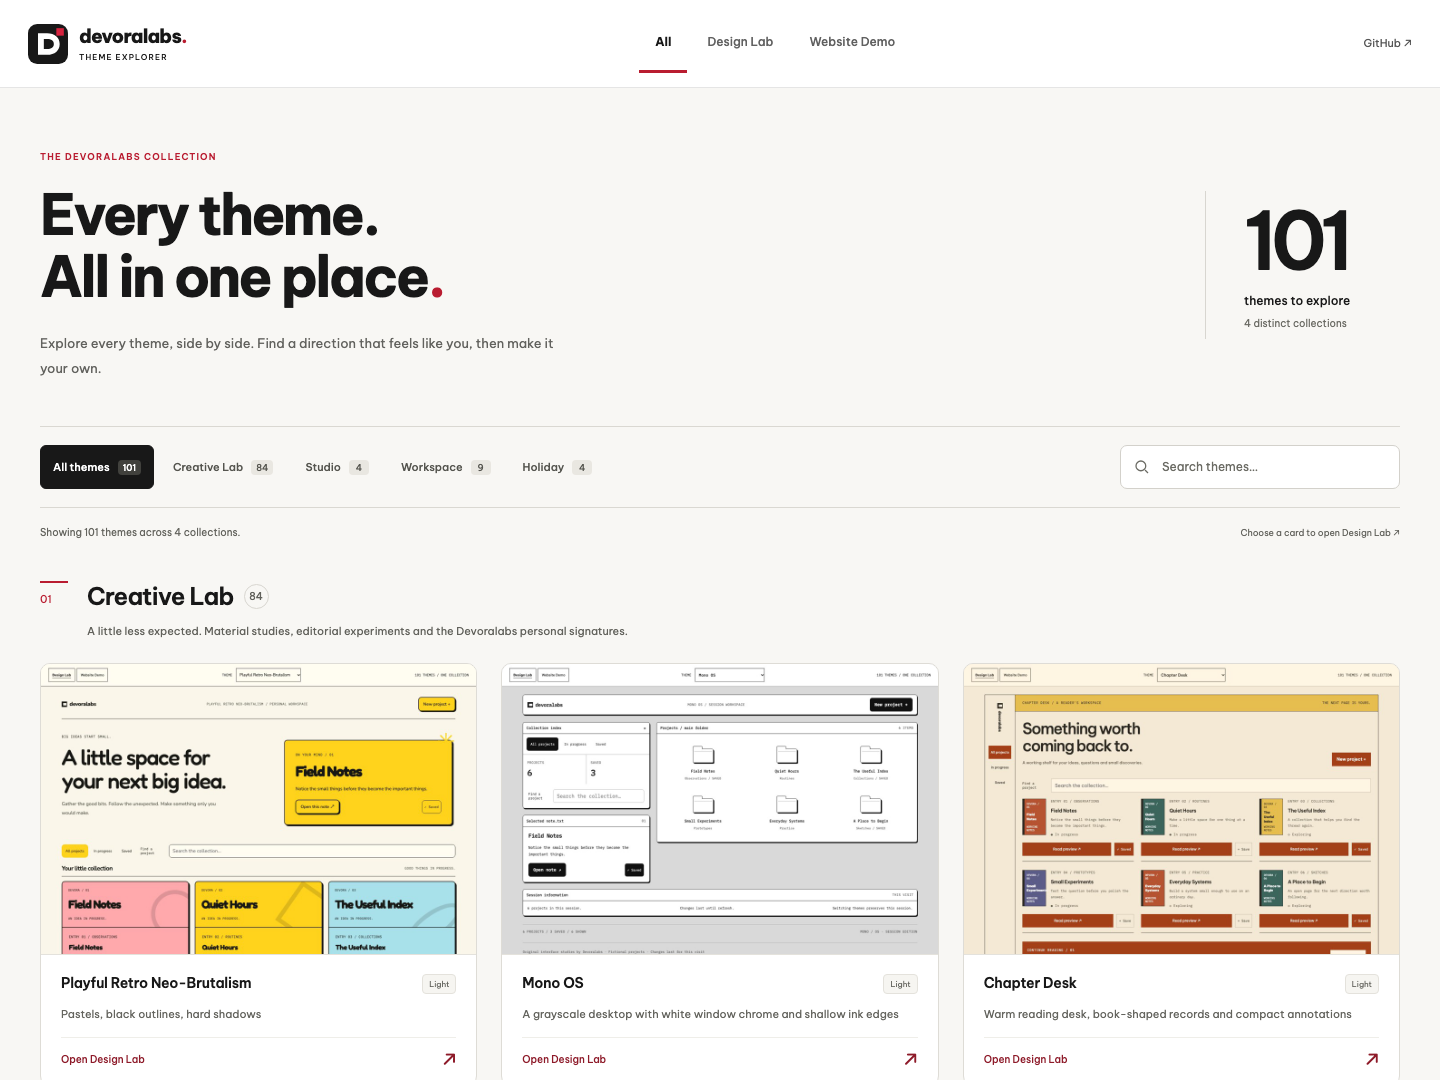
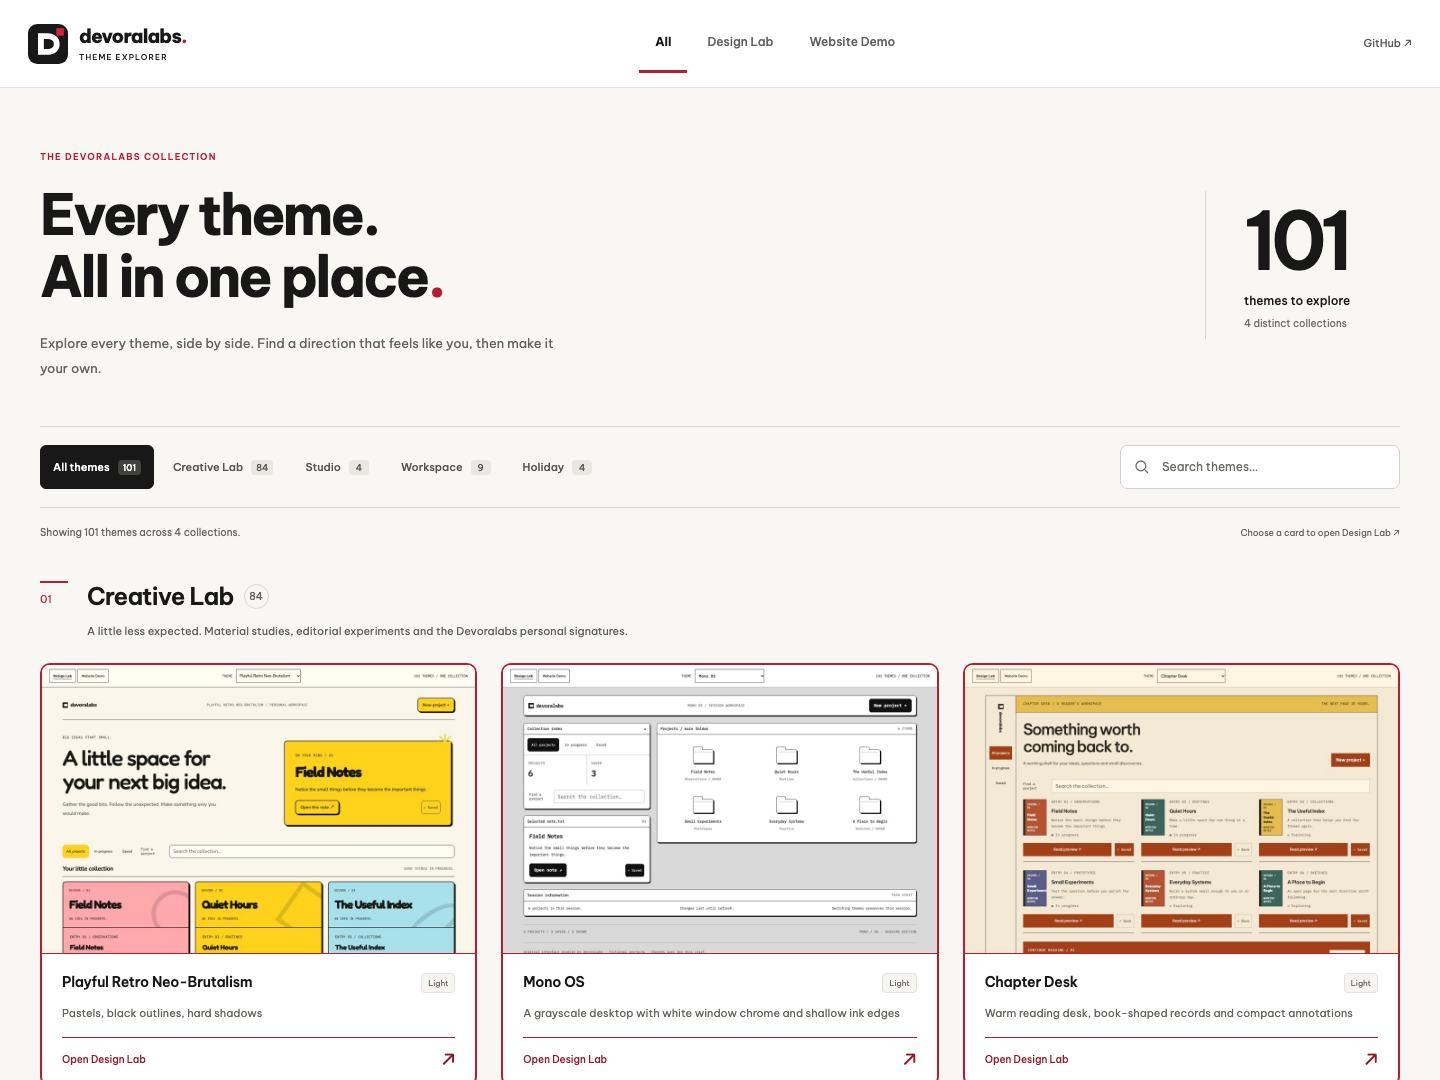
fix(ui): inset dropdown arrows and add red theme card borders

diff --git a/assets/starter/all-themes.css b/assets/starter/all-themes.css
@@ -2,7 +2,7 @@
 html[data-preview-view="all"] .explorer-header{grid-template-columns:auto 1fr auto}
 #all-panel{background:#F8F7F4;color:#181818}.all-page{width:min(1440px,calc(100% - 80px));margin:auto;padding:62px 0 28px}.all-intro{display:flex;justify-content:space-between;align-items:center;gap:50px;margin-bottom:46px}.all-eyebrow{font-size:9px;letter-spacing:.13em;font-weight:600;color:#B91C30;display:block;margin-bottom:20px}.all-intro h1{font-size:clamp(36px,4vw,56px);font-weight:700;line-height:1.12;letter-spacing:-2.5px;margin:0 0 22px}.all-intro h1>span{color:#B91C30}.all-intro p{font-size:13px;line-height:1.9;color:#62625E;margin:0;max-width:530px}.all-summary{display:grid;flex:none;border-left:1px solid #D8D6D0;padding:8px 0 8px 38px;min-width:195px}.all-summary>strong{font-size:80px;font-weight:600;letter-spacing:-6px;line-height:1.05}.all-summary>span{font-size:12px;font-weight:500;margin-top:9px}.all-summary>small{color:#6B6B64;font-size:10px;margin-top:6px}
 .all-toolbar{display:flex;align-items:center;justify-content:space-between;gap:20px;border-block:1px solid #DAD8D2;padding:18px 0}.all-filters{display:flex;gap:6px;flex-wrap:wrap}.all-filters button{min-height:44px;display:inline-flex;align-items:center;gap:8px;padding:9px 12px;border:1px solid transparent;border-radius:6px;background:transparent;color:#55554F;font-size:11px;font-weight:500;white-space:nowrap}.all-filters button>span{font-size:9px;padding:1px 5px;background:#E9E7E1;color:#55554F;border-radius:4px;min-width:20px;text-align:center}.all-filters button:hover{background:#EEEBE5}.all-filters button[aria-pressed="true"]{background:#181818;border-color:#181818;color:#FFFFFF}.all-filters button[aria-pressed="true"]>span{background:#41413D;color:#FFFFFF}.all-search{display:flex;align-items:center;gap:9px;min-height:44px;min-width:210px;max-width:280px;width:24%;padding:0 12px;background:#FFFFFF;border:1px solid #D3D1CB;border-radius:7px;color:#6B6B64}.all-search:focus-within{outline:2px solid #B91C30;outline-offset:2px}.all-search>svg{flex:none}.all-search input{font:400 12px/1.5 'Be Vietnam Pro',system-ui,sans-serif;width:100%;min-width:0;border:0;min-height:42px;color:#181818;background:transparent}.all-search input:focus-visible{outline:none}.all-search input::placeholder{color:#6B6B64}.all-result-row{display:flex;align-items:center;justify-content:space-between;gap:20px;padding:17px 0 12px;font-size:10px;color:#65655F}.all-result-row p{margin:0}.all-result-row>span{font-size:9px}
-.all-collection{padding-top:29px;margin-bottom:30px;scroll-margin-top:120px}.all-collection-heading{display:flex;gap:19px;align-items:start;margin-bottom:22px}.all-collection-index{font-size:11px;color:#B91C30;border-top:2px solid #B91C30;padding-top:8px;min-width:28px}.all-collection-heading h2{display:flex;align-items:center;gap:10px;font-size:24px;font-weight:600;line-height:1.3;letter-spacing:-.7px;margin:0 0 9px}.all-collection-count{font-size:10px;font-weight:500;letter-spacing:0;color:#62625C;border:1px solid #D8D6D0;border-radius:50%;width:25px;height:25px;display:inline-flex;justify-content:center;align-items:center}.all-collection-heading p{margin:0;font-size:11px;line-height:1.8;color:#62625C;max-width:710px}.all-grid{display:grid;grid-template-columns:repeat(3,minmax(0,1fr));gap:24px}.theme-tile{min-width:0}.theme-card{display:flex;height:100%;flex-direction:column;text-decoration:none;background:#FFFFFF;border:1px solid #DEDCD6;border-radius:10px;overflow:hidden;transition:border-color 120ms,box-shadow 120ms}.theme-card:hover{border-color:#AAA69C;box-shadow:0 5px 17px #1818180B}.theme-card.is-selected{border-color:#B91C30;box-shadow:0 0 0 1px #B91C30}.theme-card:focus-visible{outline:3px solid #B91C30;outline-offset:4px}.theme-card-image{position:relative;aspect-ratio:3/2;overflow:hidden;border-bottom:1px solid #E4E2DC}.theme-card-image img{display:block;width:100%;height:100%;object-fit:cover;transition:transform 160ms}.theme-card:hover .theme-card-image img{transform:scale(1.015)}.theme-card-selected{position:absolute;right:12px;top:12px;background:#B91C30;color:#FFFFFF;font-size:9px;font-weight:600;padding:5px 9px;border-radius:5px;box-shadow:0 1px 5px #18181819}.theme-card-body{padding:18px 20px 16px;display:flex;flex-direction:column;gap:11px;flex:1}.theme-card-title{display:flex;justify-content:space-between;gap:10px;align-items:start}.theme-card-title h3{margin:0;font-size:14px;font-weight:600;letter-spacing:-.2px;line-height:1.5;overflow-wrap:anywhere}.theme-card-tone{flex:none;font-size:8px;color:#64645E;background:#F6F5F1;border:1px solid #E4E2DC;padding:3px 6px;border-radius:4px;margin-top:1px}.theme-card-body>p{font-size:11px;line-height:1.8;color:#64645E;margin:0;flex:1}.theme-card-link{display:flex;justify-content:space-between;align-items:center;border-top:1px solid #EFEEE9;padding-top:12px;margin-top:2px;color:#8E1B2A;font-size:10px;font-weight:500}.theme-card-link>span{font-size:19px;line-height:1}.all-empty{text-align:center;padding:70px 20px 80px}.all-empty>span{display:inline-grid;place-items:center;font-size:30px;width:60px;height:60px;background:#ECE9E0;border-radius:50%;margin-bottom:20px;color:#B91C30}.all-empty h2{font-size:22px;letter-spacing:-.5px}.all-empty p{font-size:12px;color:#64645E;line-height:1.8;margin:14px 0 22px}.all-empty button{min-height:44px;background:#181818;color:#FFFFFF;padding:11px 17px;border:1px solid #181818;border-radius:6px;font-size:12px}.all-footer{display:flex;justify-content:space-between;align-items:center;gap:20px;border-top:1px solid #DAD8D2;margin-top:40px;padding-top:23px;font-size:9px;color:#64645E}.all-footer a{text-decoration:none}.all-footer a:hover{color:#B91C30;text-decoration:underline}
+.all-collection{padding-top:29px;margin-bottom:30px;scroll-margin-top:120px}.all-collection-heading{display:flex;gap:19px;align-items:start;margin-bottom:22px}.all-collection-index{font-size:11px;color:#B91C30;border-top:2px solid #B91C30;padding-top:8px;min-width:28px}.all-collection-heading h2{display:flex;align-items:center;gap:10px;font-size:24px;font-weight:600;line-height:1.3;letter-spacing:-.7px;margin:0 0 9px}.all-collection-count{font-size:10px;font-weight:500;letter-spacing:0;color:#62625C;border:1px solid #D8D6D0;border-radius:50%;width:25px;height:25px;display:inline-flex;justify-content:center;align-items:center}.all-collection-heading p{margin:0;font-size:11px;line-height:1.8;color:#62625C;max-width:710px}.all-grid{display:grid;grid-template-columns:repeat(3,minmax(0,1fr));gap:24px}.theme-tile{min-width:0}.theme-card{display:flex;height:100%;flex-direction:column;text-decoration:none;background:#FFFFFF;border:2px solid #B91C30;border-radius:10px;overflow:hidden;transition:border-color 120ms,box-shadow 120ms}.theme-card:hover{border-color:#B91C30;box-shadow:0 5px 17px #B91C3012}.theme-card.is-selected{border-color:#B91C30;box-shadow:0 0 0 2px #B91C30}.theme-card:focus-visible{outline:3px solid #B91C30;outline-offset:4px}.theme-card-image{position:relative;aspect-ratio:3/2;overflow:hidden;border-bottom:1px solid #B91C30}.theme-card-image img{display:block;width:100%;height:100%;object-fit:cover;transition:transform 160ms}.theme-card:hover .theme-card-image img{transform:scale(1.015)}.theme-card-selected{position:absolute;right:12px;top:12px;background:#B91C30;color:#FFFFFF;font-size:9px;font-weight:600;padding:5px 9px;border-radius:5px;box-shadow:0 1px 5px #18181819}.theme-card-body{padding:18px 20px 16px;display:flex;flex-direction:column;gap:11px;flex:1}.theme-card-title{display:flex;justify-content:space-between;gap:10px;align-items:start}.theme-card-title h3{margin:0;font-size:14px;font-weight:600;letter-spacing:-.2px;line-height:1.5;overflow-wrap:anywhere}.theme-card-tone{flex:none;font-size:8px;color:#64645E;background:#F6F5F1;border:1px solid #E4E2DC;padding:3px 6px;border-radius:4px;margin-top:1px}.theme-card-body>p{font-size:11px;line-height:1.8;color:#64645E;margin:0;flex:1}.theme-card-link{display:flex;justify-content:space-between;align-items:center;border-top:1px solid #B91C30;padding-top:12px;margin-top:2px;color:#8E1B2A;font-size:10px;font-weight:500}.theme-card-link>span{font-size:19px;line-height:1}.all-empty{text-align:center;padding:70px 20px 80px}.all-empty>span{display:inline-grid;place-items:center;font-size:30px;width:60px;height:60px;background:#ECE9E0;border-radius:50%;margin-bottom:20px;color:#B91C30}.all-empty h2{font-size:22px;letter-spacing:-.5px}.all-empty p{font-size:12px;color:#64645E;line-height:1.8;margin:14px 0 22px}.all-empty button{min-height:44px;background:#181818;color:#FFFFFF;padding:11px 17px;border:1px solid #181818;border-radius:6px;font-size:12px}.all-footer{display:flex;justify-content:space-between;align-items:center;gap:20px;border-top:1px solid #DAD8D2;margin-top:40px;padding-top:23px;font-size:9px;color:#64645E}.all-footer a{text-decoration:none}.all-footer a:hover{color:#B91C30;text-decoration:underline}
 @media(max-width:1100px){.all-page{width:calc(100% - 48px);padding-top:42px}.all-intro h1{font-size:43px;letter-spacing:-1.8px}.all-toolbar{flex-wrap:wrap;gap:12px}.all-search{max-width:none;flex:1;min-width:240px}.all-grid{gap:18px}.theme-card-body{padding:16px}.theme-card-title h3{font-size:13px}.all-summary{min-width:150px;padding-left:26px}.all-summary>strong{font-size:70px}}
 @media(max-width:820px){html[data-preview-view="all"] .explorer-header{grid-template-columns:1fr auto}html[data-preview-view="all"] .explorer-tabs{grid-column:1/-1;justify-self:center}.all-intro{gap:25px}.all-intro h1{font-size:37px}.all-summary{min-width:135px}.all-grid{grid-template-columns:repeat(2,minmax(0,1fr))}.all-filters{width:100%}.all-search{width:100%}.all-result-row>span{display:none}}
 @media(max-width:600px){.all-page{width:calc(100% - 28px);padding-top:30px}.all-intro{display:block;margin-bottom:26px}.all-eyebrow{font-size:8px;margin-bottom:15px}.all-intro h1{font-size:32px;letter-spacing:-1.2px;margin-bottom:16px}.all-intro p{font-size:12px;line-height:1.85}.all-summary{display:flex;align-items:baseline;flex-wrap:wrap;gap:6px 9px;border-left:0;padding:0;margin-top:23px}.all-summary>strong{font-size:30px;letter-spacing:-1px;line-height:1}.all-summary>span{font-size:11px;margin:0}.all-summary>small{margin:0;font-size:9px;border-left:1px solid #D8D6D0;padding-left:10px}.all-toolbar{padding-block:14px;gap:12px}.all-filters{gap:4px}.all-filters button{font-size:10px;padding:8px 9px;gap:6px;min-height:44px}.all-filters button>span{font-size:8px;padding-inline:4px;min-width:17px}.all-search{min-width:0}.all-search input{font-size:16px}.all-collection{padding-top:23px;margin-bottom:22px}.all-collection-heading{gap:13px;margin-bottom:18px}.all-collection-heading h2{font-size:23px}.all-collection-heading p{font-size:11px}.all-collection-index{min-width:24px;font-size:10px}.all-grid{grid-template-columns:1fr;gap:19px}.theme-card-body{padding:18px}.theme-card-title h3{font-size:15px}.theme-card-body>p{font-size:12px}.theme-card-tone{font-size:9px}.theme-card-link{font-size:11px}.all-footer{flex-direction:column;align-items:start;gap:10px;margin-top:28px}.all-empty{padding-inline:8px}.all-empty h2{font-size:20px}.all-result-row{font-size:9px;padding-top:15px}}

diff --git a/assets/starter/website.html b/assets/starter/website.html
@@ -12,6 +12,7 @@
   <link href="https://fonts.googleapis.com/css2?family=IBM+Plex+Mono:wght@400;500;600&display=swap" rel="stylesheet">
   <script src="theme-registry.js"></script><script src="expansion/themes.js"></script><script src="theme-bootstrap.js"></script><script>if(new URLSearchParams(location.search).get("embed")==="1")document.documentElement.dataset.embedded="true";</script>
   <link rel="stylesheet" href="preview-bridge.css"><link rel="stylesheet" href="styles.css"><link rel="stylesheet" href="themes.css"><link rel="stylesheet" href="workspace-themes.css"><link rel="stylesheet" href="additional-themes.css"><link rel="stylesheet" href="creative-themes.css"><link rel="stylesheet" href="demo.css"><link rel="stylesheet" href="sac-theme.css"><link rel="stylesheet" href="devora-press-theme.css"><link rel="stylesheet" href="devora-duo-theme.css"><link rel="stylesheet" href="lab/tokens.css"><link rel="stylesheet" href="avant-theme.css"><link rel="stylesheet" href="holiday-tokens.css"><link rel="stylesheet" href="holiday-themes.css"><link rel="stylesheet" href="volume-five-tokens.css"><link rel="stylesheet" href="volume-five-themes.css"><link rel="stylesheet" href="volume-five-revision.css"><link rel="stylesheet" href="pixel-riot.css"><link rel="stylesheet" href="expansion/tokens.css"><link rel="stylesheet" href="expansion/system.css"><script src="demo.js" defer></script><script src="volume-five-catalog.js" defer></script><script src="themes.js" defer></script><script src="preview-bridge.js" defer></script>
+ <link rel="stylesheet" href="dropdowns.css">
 </head>
 <body data-preview-base="./">
 <nav class="standalone-preview-nav website-preview-nav" aria-label="Preview type"><a href="./" data-preview-link="lab">Design Lab</a><a href="./?view=website" data-preview-link="website" aria-current="page">Website Demo</a></nav>

diff --git a/assets/starter/lab/index.html b/assets/starter/lab/index.html
@@ -14,6 +14,7 @@
  <script>if(new URLSearchParams(location.search).get("embed")==="1")document.documentElement.dataset.embedded="true";</script>
  <link rel="stylesheet" href="tokens.css"><link rel="stylesheet" href="profiles.css"><link rel="stylesheet" href="../holiday-tokens.css"><link rel="stylesheet" href="../volume-five-tokens.css"><link rel="stylesheet" href="lab.css"><link rel="stylesheet" href="profile-layouts.css"><link rel="stylesheet" href="holiday-layouts.css"><link rel="stylesheet" href="volume-five-layouts.css"><link rel="stylesheet" href="../preview-bridge.css">
  <link rel="stylesheet" href="volume-five-revision.css"><link rel="stylesheet" href="../pixel-riot.css"><script src="volume-five-revision.js" defer></script><script src="volume-five.js" defer></script><link rel="stylesheet" href="../expansion/tokens.css"><link rel="stylesheet" href="../expansion/system.css"><script src="../expansion/renderers.js" defer></script><script src="lab.js" defer></script><script src="../preview-bridge.js" defer></script>
+ <link rel="stylesheet" href="../dropdowns.css">
 </head>
 <body data-preview-base="../">
  <a class="skip-link" href="#workspace">Skip to workspace</a>

diff --git a/assets/starter/dropdowns.css b/assets/starter/dropdowns.css
@@ -1,0 +1,20 @@
+/* Shared dropdown affordance: theme colors stay inherited, with room for the arrow. */
+:root select:not([multiple]):not([size]) {
+ -webkit-appearance:none!important;
+ appearance:none!important;
+ padding-inline-end:44px!important;
+ background-image:linear-gradient(45deg,transparent 50%,currentColor 50%),linear-gradient(135deg,currentColor 50%,transparent 50%)!important;
+ background-position:right 22px center,right 16px center!important;
+ background-size:6px 6px!important;
+ background-repeat:no-repeat!important;
+ text-overflow:ellipsis;
+ cursor:pointer;
+}
+:root .theme-picker-trigger {padding-inline-end:16px}
+@media(forced-colors:active) {
+ :root select:not([multiple]):not([size]) {
+  -webkit-appearance:auto!important;
+  appearance:auto!important;
+  background-image:none!important;
+ }
+}

diff --git a/assets/starter/index.html b/assets/starter/index.html
@@ -8,6 +8,7 @@
  <link rel="preconnect" href="https://fonts.googleapis.com"><link rel="preconnect" href="https://fonts.gstatic.com" crossorigin>
  <link href="https://fonts.googleapis.com/css2?family=Be+Vietnam+Pro:wght@400;500;600;700;800&display=swap" rel="stylesheet">
  <link rel="stylesheet" href="explorer.css"><link rel="stylesheet" href="all-themes.css"><script src="theme-registry.js"></script><script src="explorer.js" defer></script><script src="theme-picker.js" defer></script><script src="all-themes.js" defer></script>
+ <link rel="stylesheet" href="dropdowns.css">
 </head>
 <body>
  <a class="explorer-skip" href="#preview-panels">Skip to preview</a>
